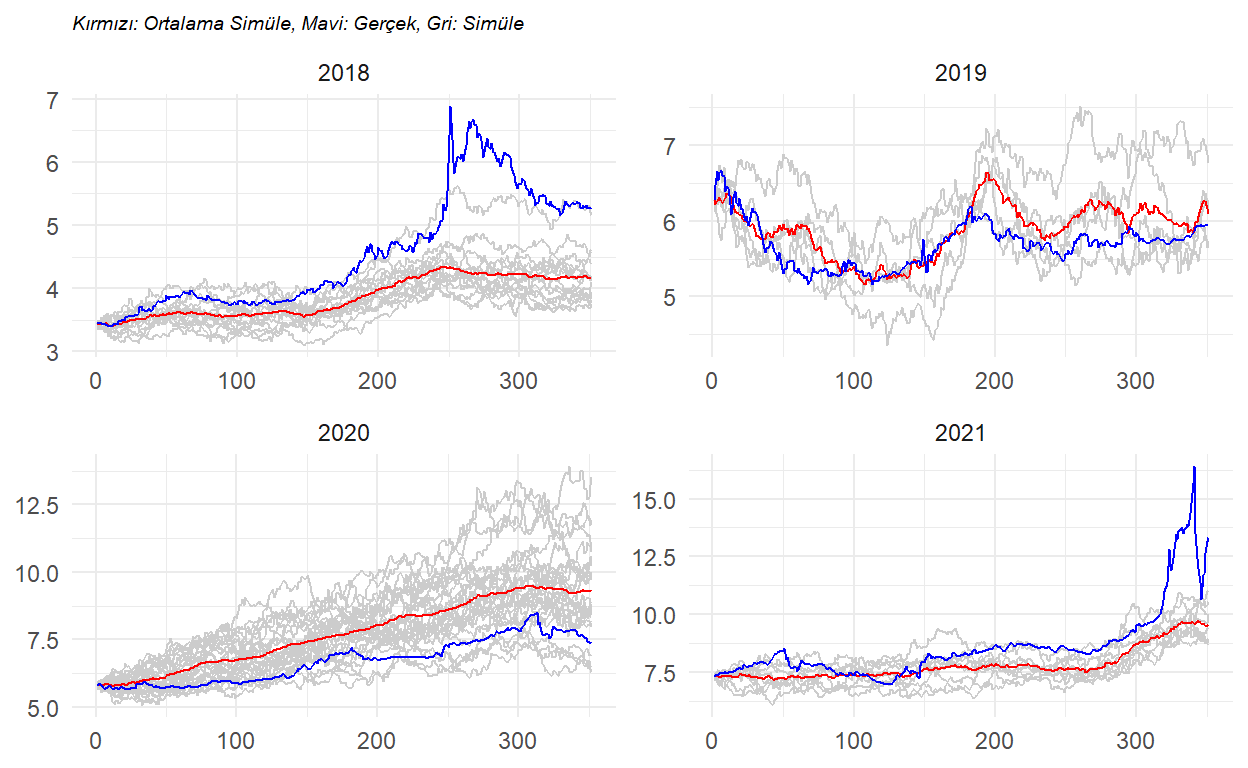
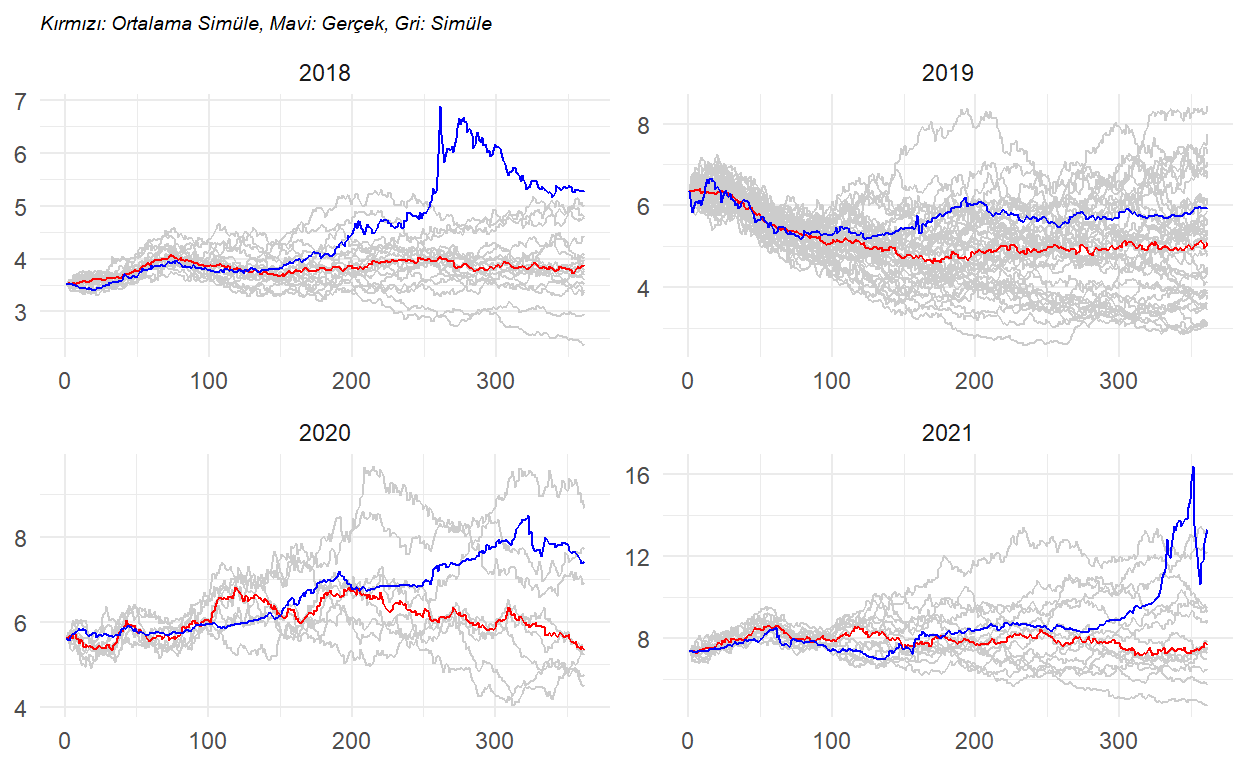
.

diff --git a/_posts/2022-05-22-post4/post4.html b/_posts/2022-05-22-post4/post4.html
@@ -1793,21 +1793,20 @@ farklı olarak burada simülasyonu biraz daha geriden başlatacağız. Çünkü
 test edilecek yıla ait değerlerin henüz gerçekleşmediğini varsayarsak,
 önceki yılın bir bölümünü alıp burada gerçekleşen değerleri bir kümeye
 dahil etmemiz gerekir. Bunun için de test edilecek yıldan bir önceki
-yılın son 90 iş gününü alabiliriz. Bu durumda aşamaları şöyle
-sıralayabiliriz: Test edilecek yıldan bir önceki yılın son 90 iş gününü
-al, burayı simüle et, simüle değerleri kümelere ayır, 90 gün için
+yılın son 100 iş gününü alabiliriz. Bu durumda aşamaları şöyle
+sıralayabiliriz: Test edilecek yıldan bir önceki yılın son 100 iş gününü
+al, burayı simüle et, simüle değerleri kümelere ayır, 100 gün için
 gerçekleşen değerleri bir kümeye dahil et ve buradan seçilen kümeleri
-kullanarak test edilecek yılın değerlerini bul. 90 iş gününü (~4 ay)
-seçme nedenim vade uzadıkça tahmin gücünün zayıflayabileceğini dikkate
-alarak çok geriden başlatıp tahmini kötüleştirmemek; bununla beraber,
-çok da erken başlatıp zaman serilerini kümelerken kaliteyi
-düşürmemek.</p>
+kullanarak test edilecek yılın değerlerini bul. 100 iş gününü seçme
+nedenim vade uzadıkça tahmin gücünün zayıflayabileceğini dikkate alarak
+çok geriden başlatıp tahmini kötüleştirmemek; bununla beraber, çok da
+erken başlatıp zaman serilerini kümelerken kaliteyi düşürmemek.</p>
 <div class="layout-chunk" data-layout="l-body">
 <div class="sourceCode">
 <pre class="sourceCode r"><code class="sourceCode r"><span class='va'>filter_min</span> <span class='op'>&lt;-</span> <span class='va'>df</span> <span class='op'><a href='https://magrittr.tidyverse.org/reference/pipe.html'>%&gt;%</a></span> 
   <span class='fu'><a href='https://dplyr.tidyverse.org/reference/filter.html'>filter</a></span><span class='op'>(</span><span class='va'>year</span> <span class='op'><a href='https://rdrr.io/r/base/match.html'>%in%</a></span> <span class='fl'>2017</span><span class='op'>:</span><span class='fl'>2020</span><span class='op'>)</span> <span class='op'><a href='https://magrittr.tidyverse.org/reference/pipe.html'>%&gt;%</a></span> 
   <span class='fu'><a href='https://dplyr.tidyverse.org/reference/group_by.html'>group_by</a></span><span class='op'>(</span><span class='va'>year</span><span class='op'>)</span> <span class='op'><a href='https://magrittr.tidyverse.org/reference/pipe.html'>%&gt;%</a></span> 
-  <span class='fu'><a href='https://dplyr.tidyverse.org/reference/slice.html'>slice</a></span><span class='op'>(</span><span class='fu'><a href='https://rdrr.io/r/utils/head.html'>tail</a></span><span class='op'>(</span><span class='fu'><a href='https://dplyr.tidyverse.org/reference/ranking.html'>row_number</a></span><span class='op'>(</span><span class='op'>)</span>, <span class='fl'>90</span><span class='op'>)</span><span class='op'>)</span> <span class='op'><a href='https://magrittr.tidyverse.org/reference/pipe.html'>%&gt;%</a></span> 
+  <span class='fu'><a href='https://dplyr.tidyverse.org/reference/slice.html'>slice</a></span><span class='op'>(</span><span class='fu'><a href='https://rdrr.io/r/utils/head.html'>tail</a></span><span class='op'>(</span><span class='fu'><a href='https://dplyr.tidyverse.org/reference/ranking.html'>row_number</a></span><span class='op'>(</span><span class='op'>)</span>, <span class='fl'>100</span><span class='op'>)</span><span class='op'>)</span> <span class='op'><a href='https://magrittr.tidyverse.org/reference/pipe.html'>%&gt;%</a></span> 
   <span class='fu'><a href='https://dplyr.tidyverse.org/reference/filter.html'>filter</a></span><span class='op'>(</span><span class='va'>date</span> <span class='op'>==</span> <span class='fu'><a href='https://rdrr.io/r/base/Extremes.html'>min</a></span><span class='op'>(</span><span class='va'>date</span><span class='op'>)</span><span class='op'>)</span> <span class='op'><a href='https://magrittr.tidyverse.org/reference/pipe.html'>%&gt;%</a></span> 
   <span class='fu'><a href='https://dplyr.tidyverse.org/reference/pull.html'>pull</a></span><span class='op'>(</span><span class='va'>date</span><span class='op'>)</span>
 
@@ -1838,11 +1837,11 @@ düşürmemek.</p>
   
   <span class='va'>mlsim_master</span> <span class='op'>&lt;-</span> <span class='va'>mlsim_master</span> <span class='op'><a href='https://magrittr.tidyverse.org/reference/pipe.html'>%&gt;%</a></span> <span class='fu'><a href='https://dplyr.tidyverse.org/reference/bind.html'>bind_rows</a></span><span class='op'>(</span><span class='va'>mlsim</span><span class='op'>)</span>
   
-  <span class='va'>mlgbm</span> <span class='op'>&lt;-</span> <span class='fu'><a href='https://rdrr.io/r/base/t.html'>t</a></span><span class='op'>(</span><span class='fu'><a href='https://rdrr.io/r/base/scale.html'>scale</a></span><span class='op'>(</span><span class='va'>mlsim</span><span class='op'>[</span><span class='op'>-</span><span class='fu'><a href='https://rdrr.io/r/base/c.html'>c</a></span><span class='op'>(</span><span class='fl'>1</span>,<span class='fl'>2</span><span class='op'>)</span><span class='op'>]</span><span class='op'>)</span><span class='op'>)</span>
+  <span class='va'>mlgbm</span> <span class='op'>&lt;-</span> <span class='fu'><a href='https://rdrr.io/r/base/t.html'>t</a></span><span class='op'>(</span><span class='fu'><a href='https://rdrr.io/r/base/scale.html'>scale</a></span><span class='op'>(</span><span class='va'>mlsim</span><span class='op'>[</span><span class='fl'>1</span><span class='op'>:</span><span class='fl'>100</span>,<span class='op'>-</span><span class='fu'><a href='https://rdrr.io/r/base/c.html'>c</a></span><span class='op'>(</span><span class='fl'>1</span>,<span class='fl'>2</span><span class='op'>)</span><span class='op'>]</span><span class='op'>)</span><span class='op'>)</span> <span class='co'># son 100 günü kümelemeye dahil etmeliyiz</span>
   <span class='va'>mlgbm_dist</span> <span class='op'>&lt;-</span> <span class='fu'><a href='https://rdrr.io/r/stats/dist.html'>dist</a></span><span class='op'>(</span><span class='va'>mlgbm</span>, method<span class='op'>=</span><span class='st'>"euclidean"</span><span class='op'>)</span>
   <span class='va'>fit</span> <span class='op'>&lt;-</span> <span class='fu'><a href='https://rdrr.io/r/stats/hclust.html'>hclust</a></span><span class='op'>(</span><span class='va'>mlgbm_dist</span>, method<span class='op'>=</span><span class='st'>"ward.D"</span><span class='op'>)</span>
   
-  <span class='va'>clustered</span> <span class='op'>&lt;-</span> <span class='fu'><a href='https://rdrr.io/r/stats/cutree.html'>cutree</a></span><span class='op'>(</span><span class='va'>fit</span>, k<span class='op'>=</span><span class='fl'>100</span><span class='op'>)</span> <span class='co'># 100 adet küme oluşturulmuştur</span>
+  <span class='va'>clustered</span> <span class='op'>&lt;-</span> <span class='fu'><a href='https://rdrr.io/r/stats/cutree.html'>cutree</a></span><span class='op'>(</span><span class='va'>fit</span>, k<span class='op'>=</span><span class='fl'>50</span><span class='op'>)</span> <span class='co'># 50 adet küme oluşturulmuştur</span>
   <span class='va'>clustered_tidy</span> <span class='op'>&lt;-</span> <span class='fu'><a href='https://rdrr.io/r/base/as.data.frame.html'>as.data.frame</a></span><span class='op'>(</span><span class='fu'><a href='https://rdrr.io/r/base/table.html'>as.table</a></span><span class='op'>(</span><span class='va'>clustered</span><span class='op'>)</span><span class='op'>)</span> <span class='op'><a href='https://magrittr.tidyverse.org/reference/pipe.html'>%&gt;%</a></span> 
     <span class='fu'><a href='https://dplyr.tidyverse.org/reference/rename.html'>rename</a></span><span class='op'>(</span><span class='st'>"sim"</span><span class='op'>=</span><span class='fl'>1</span>,<span class='st'>"cluster"</span><span class='op'>=</span><span class='fl'>2</span><span class='op'>)</span> <span class='op'><a href='https://magrittr.tidyverse.org/reference/pipe.html'>%&gt;%</a></span> 
     <span class='fu'><a href='https://dplyr.tidyverse.org/reference/mutate.html'>mutate</a></span><span class='op'>(</span>sim <span class='op'>=</span> <span class='fu'><a href='https://rdrr.io/r/base/character.html'>as.character</a></span><span class='op'>(</span><span class='va'>sim</span><span class='op'>)</span><span class='op'>)</span>
@@ -1859,7 +1858,8 @@ düşürmemek.</p>
     <span class='fu'><a href='https://dplyr.tidyverse.org/reference/filter.html'>filter</a></span><span class='op'>(</span><span class='va'>cluster</span> <span class='op'>==</span> <span class='va'>cluster_x</span><span class='op'>)</span> <span class='op'><a href='https://magrittr.tidyverse.org/reference/pipe.html'>%&gt;%</a></span> 
     <span class='fu'><a href='https://dplyr.tidyverse.org/reference/select.html'>select</a></span><span class='op'>(</span><span class='op'>-</span><span class='va'>cluster</span><span class='op'>)</span> <span class='op'><a href='https://magrittr.tidyverse.org/reference/pipe.html'>%&gt;%</a></span> 
     <span class='fu'><a href='https://tidyr.tidyverse.org/reference/pivot_wider.html'>pivot_wider</a></span><span class='op'>(</span>names_from <span class='op'>=</span> <span class='st'>"sim"</span>, values_from <span class='op'>=</span> <span class='st'>"value"</span><span class='op'>)</span> <span class='op'><a href='https://magrittr.tidyverse.org/reference/pipe.html'>%&gt;%</a></span> 
-    <span class='fu'><a href='https://dplyr.tidyverse.org/reference/mutate.html'>mutate</a></span><span class='op'>(</span><span class='st'>"simAvg"</span> <span class='op'>=</span> <span class='fu'><a href='https://rdrr.io/r/base/colSums.html'>rowMeans</a></span><span class='op'>(</span><span class='va'>.</span><span class='op'>[</span>,<span class='op'>-</span><span class='fu'><a href='https://rdrr.io/r/base/c.html'>c</a></span><span class='op'>(</span><span class='fl'>1</span>,<span class='fl'>2</span>,<span class='fu'><a href='https://rdrr.io/r/base/nrow.html'>ncol</a></span><span class='op'>(</span><span class='va'>.</span><span class='op'>)</span><span class='op'>)</span><span class='op'>]</span><span class='op'>)</span><span class='op'>)</span> <span class='op'><a href='https://magrittr.tidyverse.org/reference/pipe.html'>%&gt;%</a></span> 
+    <span class='fu'><a href='https://dplyr.tidyverse.org/reference/mutate.html'>mutate</a></span><span class='op'>(</span><span class='st'>"simAvg"</span> <span class='op'>=</span> <span class='fu'><a href='https://rdrr.io/r/base/apply.html'>apply</a></span><span class='op'>(</span><span class='va'>.</span><span class='op'>[</span>,<span class='op'>-</span><span class='fu'><a href='https://rdrr.io/r/base/c.html'>c</a></span><span class='op'>(</span><span class='fl'>1</span>,<span class='fl'>2</span>,<span class='fu'><a href='https://rdrr.io/r/base/nrow.html'>ncol</a></span><span class='op'>(</span><span class='va'>.</span><span class='op'>)</span><span class='op'>)</span><span class='op'>]</span>, <span class='fl'>1</span>, <span class='kw'>function</span><span class='op'>(</span><span class='va'>x</span><span class='op'>)</span> <span class='fu'><a href='https://rdrr.io/r/stats/median.html'>median</a></span><span class='op'>(</span><span class='va'>x</span><span class='op'>)</span><span class='op'>)</span><span class='op'>)</span> <span class='op'><a href='https://magrittr.tidyverse.org/reference/pipe.html'>%&gt;%</a></span> 
+    <span class='co'># uç değerlerden etkilenmemek için ortalama yerine medyan (ortanca) kullanıldı</span>
     <span class='fu'><a href='https://tidyr.tidyverse.org/reference/pivot_longer.html'>pivot_longer</a></span><span class='op'>(</span><span class='op'>!</span><span class='fu'><a href='https://rdrr.io/r/base/c.html'>c</a></span><span class='op'>(</span><span class='va'>rn</span>,<span class='va'>year</span><span class='op'>)</span>, names_to <span class='op'>=</span> <span class='st'>"sim"</span>, values_to <span class='op'>=</span> <span class='st'>"value"</span><span class='op'>)</span>
   
   <span class='va'>joined_clusters_master</span> <span class='op'>&lt;-</span> <span class='va'>joined_clusters_master</span> <span class='op'><a href='https://magrittr.tidyverse.org/reference/pipe.html'>%&gt;%</a></span> <span class='fu'><a href='https://dplyr.tidyverse.org/reference/bind.html'>bind_rows</a></span><span class='op'>(</span><span class='va'>joined_clusters</span><span class='op'>)</span>
@@ -1904,7 +1904,7 @@ rmse_avg
 2018
 </td>
 <td style="text-align:right;">
-0.9311971
+1.1098768
 </td>
 <td style="text-align:right;">
 1.3661915
@@ -1915,7 +1915,7 @@ rmse_avg
 2019
 </td>
 <td style="text-align:right;">
-0.3126214
+0.6884056
 </td>
 <td style="text-align:right;">
 0.4085097
@@ -1926,7 +1926,7 @@ rmse_avg
 2020
 </td>
 <td style="text-align:right;">
-1.1336277
+1.0413089
 </td>
 <td style="text-align:right;">
 1.3118926
@@ -1937,7 +1937,7 @@ rmse_avg
 2021
 </td>
 <td style="text-align:right;">
-1.2758276
+1.8937623
 </td>
 <td style="text-align:right;">
 2.1905821
@@ -1947,11 +1947,15 @@ rmse_avg
 </table>
 </div>
 <p>Yukarıdaki tablodan ve aşağıdaki grafikten görüleceği üzere RMSE
-değerlerini düşürdük ki sıfıra yaklaşması hiç tahmin hatası yapılmadığı
-anlamına geliyor.</p>
+değerlerini tek bir yıl hariç düşürdük ki sıfıra yaklaşması hiç tahmin
+hatası yapılmadığı anlamına geliyor.</p>
 <div class="layout-chunk" data-layout="l-body">
 <p><img src="post4_files/figure-html5/unnamed-chunk-15-1.png" width="624" /></p>
 </div>
+<p>Çalışmada kümeleme algoritmasının simülasyonda faydalı olabileceğine
+odaklanmak istedim. Burada <span class="math inline">\(\mu\)</span> ve
+<span class="math inline">\(\sigma\)</span> değerlerinin, iş günü
+sayısının, küme sayısının en uygun şekilde seçimi önem kazanacaktır.</p>
 <p>Görsellere ait kodlara aşağıdan ulaşılabilir.</p>
 <div class="layout-chunk" data-layout="l-body">
 <div class="sourceCode">

diff --git a/docs/posts/2022-05-22-post4/index.html b/docs/posts/2022-05-22-post4/index.html
@@ -2441,21 +2441,20 @@ farklı olarak burada simülasyonu biraz daha geriden başlatacağız. Çünkü
 test edilecek yıla ait değerlerin henüz gerçekleşmediğini varsayarsak,
 önceki yılın bir bölümünü alıp burada gerçekleşen değerleri bir kümeye
 dahil etmemiz gerekir. Bunun için de test edilecek yıldan bir önceki
-yılın son 90 iş gününü alabiliriz. Bu durumda aşamaları şöyle
-sıralayabiliriz: Test edilecek yıldan bir önceki yılın son 90 iş gününü
-al, burayı simüle et, simüle değerleri kümelere ayır, 90 gün için
+yılın son 100 iş gününü alabiliriz. Bu durumda aşamaları şöyle
+sıralayabiliriz: Test edilecek yıldan bir önceki yılın son 100 iş gününü
+al, burayı simüle et, simüle değerleri kümelere ayır, 100 gün için
 gerçekleşen değerleri bir kümeye dahil et ve buradan seçilen kümeleri
-kullanarak test edilecek yılın değerlerini bul. 90 iş gününü (~4 ay)
-seçme nedenim vade uzadıkça tahmin gücünün zayıflayabileceğini dikkate
-alarak çok geriden başlatıp tahmini kötüleştirmemek; bununla beraber,
-çok da erken başlatıp zaman serilerini kümelerken kaliteyi
-düşürmemek.</p>
+kullanarak test edilecek yılın değerlerini bul. 100 iş gününü seçme
+nedenim vade uzadıkça tahmin gücünün zayıflayabileceğini dikkate alarak
+çok geriden başlatıp tahmini kötüleştirmemek; bununla beraber, çok da
+erken başlatıp zaman serilerini kümelerken kaliteyi düşürmemek.</p>
 <div class="layout-chunk" data-layout="l-body">
 <div class="sourceCode">
 <pre class="sourceCode r"><code class="sourceCode r"><span class='va'>filter_min</span> <span class='op'>&lt;-</span> <span class='va'>df</span> <span class='op'><a href='https://magrittr.tidyverse.org/reference/pipe.html'>%&gt;%</a></span> 
   <span class='fu'><a href='https://dplyr.tidyverse.org/reference/filter.html'>filter</a></span><span class='op'>(</span><span class='va'>year</span> <span class='op'><a href='https://rdrr.io/r/base/match.html'>%in%</a></span> <span class='fl'>2017</span><span class='op'>:</span><span class='fl'>2020</span><span class='op'>)</span> <span class='op'><a href='https://magrittr.tidyverse.org/reference/pipe.html'>%&gt;%</a></span> 
   <span class='fu'><a href='https://dplyr.tidyverse.org/reference/group_by.html'>group_by</a></span><span class='op'>(</span><span class='va'>year</span><span class='op'>)</span> <span class='op'><a href='https://magrittr.tidyverse.org/reference/pipe.html'>%&gt;%</a></span> 
-  <span class='fu'><a href='https://dplyr.tidyverse.org/reference/slice.html'>slice</a></span><span class='op'>(</span><span class='fu'><a href='https://rdrr.io/r/utils/head.html'>tail</a></span><span class='op'>(</span><span class='fu'><a href='https://dplyr.tidyverse.org/reference/ranking.html'>row_number</a></span><span class='op'>(</span><span class='op'>)</span>, <span class='fl'>90</span><span class='op'>)</span><span class='op'>)</span> <span class='op'><a href='https://magrittr.tidyverse.org/reference/pipe.html'>%&gt;%</a></span> 
+  <span class='fu'><a href='https://dplyr.tidyverse.org/reference/slice.html'>slice</a></span><span class='op'>(</span><span class='fu'><a href='https://rdrr.io/r/utils/head.html'>tail</a></span><span class='op'>(</span><span class='fu'><a href='https://dplyr.tidyverse.org/reference/ranking.html'>row_number</a></span><span class='op'>(</span><span class='op'>)</span>, <span class='fl'>100</span><span class='op'>)</span><span class='op'>)</span> <span class='op'><a href='https://magrittr.tidyverse.org/reference/pipe.html'>%&gt;%</a></span> 
   <span class='fu'><a href='https://dplyr.tidyverse.org/reference/filter.html'>filter</a></span><span class='op'>(</span><span class='va'>date</span> <span class='op'>==</span> <span class='fu'><a href='https://rdrr.io/r/base/Extremes.html'>min</a></span><span class='op'>(</span><span class='va'>date</span><span class='op'>)</span><span class='op'>)</span> <span class='op'><a href='https://magrittr.tidyverse.org/reference/pipe.html'>%&gt;%</a></span> 
   <span class='fu'><a href='https://dplyr.tidyverse.org/reference/pull.html'>pull</a></span><span class='op'>(</span><span class='va'>date</span><span class='op'>)</span>
 
@@ -2486,11 +2485,11 @@ düşürmemek.</p>
   
   <span class='va'>mlsim_master</span> <span class='op'>&lt;-</span> <span class='va'>mlsim_master</span> <span class='op'><a href='https://magrittr.tidyverse.org/reference/pipe.html'>%&gt;%</a></span> <span class='fu'><a href='https://dplyr.tidyverse.org/reference/bind.html'>bind_rows</a></span><span class='op'>(</span><span class='va'>mlsim</span><span class='op'>)</span>
   
-  <span class='va'>mlgbm</span> <span class='op'>&lt;-</span> <span class='fu'><a href='https://rdrr.io/r/base/t.html'>t</a></span><span class='op'>(</span><span class='fu'><a href='https://rdrr.io/r/base/scale.html'>scale</a></span><span class='op'>(</span><span class='va'>mlsim</span><span class='op'>[</span><span class='op'>-</span><span class='fu'><a href='https://rdrr.io/r/base/c.html'>c</a></span><span class='op'>(</span><span class='fl'>1</span>,<span class='fl'>2</span><span class='op'>)</span><span class='op'>]</span><span class='op'>)</span><span class='op'>)</span>
+  <span class='va'>mlgbm</span> <span class='op'>&lt;-</span> <span class='fu'><a href='https://rdrr.io/r/base/t.html'>t</a></span><span class='op'>(</span><span class='fu'><a href='https://rdrr.io/r/base/scale.html'>scale</a></span><span class='op'>(</span><span class='va'>mlsim</span><span class='op'>[</span><span class='fl'>1</span><span class='op'>:</span><span class='fl'>100</span>,<span class='op'>-</span><span class='fu'><a href='https://rdrr.io/r/base/c.html'>c</a></span><span class='op'>(</span><span class='fl'>1</span>,<span class='fl'>2</span><span class='op'>)</span><span class='op'>]</span><span class='op'>)</span><span class='op'>)</span> <span class='co'># son 100 günü kümelemeye dahil etmeliyiz</span>
   <span class='va'>mlgbm_dist</span> <span class='op'>&lt;-</span> <span class='fu'><a href='https://rdrr.io/r/stats/dist.html'>dist</a></span><span class='op'>(</span><span class='va'>mlgbm</span>, method<span class='op'>=</span><span class='st'>"euclidean"</span><span class='op'>)</span>
   <span class='va'>fit</span> <span class='op'>&lt;-</span> <span class='fu'><a href='https://rdrr.io/r/stats/hclust.html'>hclust</a></span><span class='op'>(</span><span class='va'>mlgbm_dist</span>, method<span class='op'>=</span><span class='st'>"ward.D"</span><span class='op'>)</span>
   
-  <span class='va'>clustered</span> <span class='op'>&lt;-</span> <span class='fu'><a href='https://rdrr.io/r/stats/cutree.html'>cutree</a></span><span class='op'>(</span><span class='va'>fit</span>, k<span class='op'>=</span><span class='fl'>100</span><span class='op'>)</span> <span class='co'># 100 adet küme oluşturulmuştur</span>
+  <span class='va'>clustered</span> <span class='op'>&lt;-</span> <span class='fu'><a href='https://rdrr.io/r/stats/cutree.html'>cutree</a></span><span class='op'>(</span><span class='va'>fit</span>, k<span class='op'>=</span><span class='fl'>50</span><span class='op'>)</span> <span class='co'># 50 adet küme oluşturulmuştur</span>
   <span class='va'>clustered_tidy</span> <span class='op'>&lt;-</span> <span class='fu'><a href='https://rdrr.io/r/base/as.data.frame.html'>as.data.frame</a></span><span class='op'>(</span><span class='fu'><a href='https://rdrr.io/r/base/table.html'>as.table</a></span><span class='op'>(</span><span class='va'>clustered</span><span class='op'>)</span><span class='op'>)</span> <span class='op'><a href='https://magrittr.tidyverse.org/reference/pipe.html'>%&gt;%</a></span> 
     <span class='fu'><a href='https://dplyr.tidyverse.org/reference/rename.html'>rename</a></span><span class='op'>(</span><span class='st'>"sim"</span><span class='op'>=</span><span class='fl'>1</span>,<span class='st'>"cluster"</span><span class='op'>=</span><span class='fl'>2</span><span class='op'>)</span> <span class='op'><a href='https://magrittr.tidyverse.org/reference/pipe.html'>%&gt;%</a></span> 
     <span class='fu'><a href='https://dplyr.tidyverse.org/reference/mutate.html'>mutate</a></span><span class='op'>(</span>sim <span class='op'>=</span> <span class='fu'><a href='https://rdrr.io/r/base/character.html'>as.character</a></span><span class='op'>(</span><span class='va'>sim</span><span class='op'>)</span><span class='op'>)</span>
@@ -2507,7 +2506,8 @@ düşürmemek.</p>
     <span class='fu'><a href='https://dplyr.tidyverse.org/reference/filter.html'>filter</a></span><span class='op'>(</span><span class='va'>cluster</span> <span class='op'>==</span> <span class='va'>cluster_x</span><span class='op'>)</span> <span class='op'><a href='https://magrittr.tidyverse.org/reference/pipe.html'>%&gt;%</a></span> 
     <span class='fu'><a href='https://dplyr.tidyverse.org/reference/select.html'>select</a></span><span class='op'>(</span><span class='op'>-</span><span class='va'>cluster</span><span class='op'>)</span> <span class='op'><a href='https://magrittr.tidyverse.org/reference/pipe.html'>%&gt;%</a></span> 
     <span class='fu'><a href='https://tidyr.tidyverse.org/reference/pivot_wider.html'>pivot_wider</a></span><span class='op'>(</span>names_from <span class='op'>=</span> <span class='st'>"sim"</span>, values_from <span class='op'>=</span> <span class='st'>"value"</span><span class='op'>)</span> <span class='op'><a href='https://magrittr.tidyverse.org/reference/pipe.html'>%&gt;%</a></span> 
-    <span class='fu'><a href='https://dplyr.tidyverse.org/reference/mutate.html'>mutate</a></span><span class='op'>(</span><span class='st'>"simAvg"</span> <span class='op'>=</span> <span class='fu'><a href='https://rdrr.io/r/base/colSums.html'>rowMeans</a></span><span class='op'>(</span><span class='va'>.</span><span class='op'>[</span>,<span class='op'>-</span><span class='fu'><a href='https://rdrr.io/r/base/c.html'>c</a></span><span class='op'>(</span><span class='fl'>1</span>,<span class='fl'>2</span>,<span class='fu'><a href='https://rdrr.io/r/base/nrow.html'>ncol</a></span><span class='op'>(</span><span class='va'>.</span><span class='op'>)</span><span class='op'>)</span><span class='op'>]</span><span class='op'>)</span><span class='op'>)</span> <span class='op'><a href='https://magrittr.tidyverse.org/reference/pipe.html'>%&gt;%</a></span> 
+    <span class='fu'><a href='https://dplyr.tidyverse.org/reference/mutate.html'>mutate</a></span><span class='op'>(</span><span class='st'>"simAvg"</span> <span class='op'>=</span> <span class='fu'><a href='https://rdrr.io/r/base/apply.html'>apply</a></span><span class='op'>(</span><span class='va'>.</span><span class='op'>[</span>,<span class='op'>-</span><span class='fu'><a href='https://rdrr.io/r/base/c.html'>c</a></span><span class='op'>(</span><span class='fl'>1</span>,<span class='fl'>2</span>,<span class='fu'><a href='https://rdrr.io/r/base/nrow.html'>ncol</a></span><span class='op'>(</span><span class='va'>.</span><span class='op'>)</span><span class='op'>)</span><span class='op'>]</span>, <span class='fl'>1</span>, <span class='kw'>function</span><span class='op'>(</span><span class='va'>x</span><span class='op'>)</span> <span class='fu'><a href='https://rdrr.io/r/stats/median.html'>median</a></span><span class='op'>(</span><span class='va'>x</span><span class='op'>)</span><span class='op'>)</span><span class='op'>)</span> <span class='op'><a href='https://magrittr.tidyverse.org/reference/pipe.html'>%&gt;%</a></span> 
+    <span class='co'># uç değerlerden etkilenmemek için ortalama yerine medyan (ortanca) kullanıldı</span>
     <span class='fu'><a href='https://tidyr.tidyverse.org/reference/pivot_longer.html'>pivot_longer</a></span><span class='op'>(</span><span class='op'>!</span><span class='fu'><a href='https://rdrr.io/r/base/c.html'>c</a></span><span class='op'>(</span><span class='va'>rn</span>,<span class='va'>year</span><span class='op'>)</span>, names_to <span class='op'>=</span> <span class='st'>"sim"</span>, values_to <span class='op'>=</span> <span class='st'>"value"</span><span class='op'>)</span>
   
   <span class='va'>joined_clusters_master</span> <span class='op'>&lt;-</span> <span class='va'>joined_clusters_master</span> <span class='op'><a href='https://magrittr.tidyverse.org/reference/pipe.html'>%&gt;%</a></span> <span class='fu'><a href='https://dplyr.tidyverse.org/reference/bind.html'>bind_rows</a></span><span class='op'>(</span><span class='va'>joined_clusters</span><span class='op'>)</span>
@@ -2552,7 +2552,7 @@ rmse_avg
 2018
 </td>
 <td style="text-align:right;">
-0.9311971
+1.1098768
 </td>
 <td style="text-align:right;">
 1.3661915
@@ -2563,7 +2563,7 @@ rmse_avg
 2019
 </td>
 <td style="text-align:right;">
-0.3126214
+0.6884056
 </td>
 <td style="text-align:right;">
 0.4085097
@@ -2574,7 +2574,7 @@ rmse_avg
 2020
 </td>
 <td style="text-align:right;">
-1.1336277
+1.0413089
 </td>
 <td style="text-align:right;">
 1.3118926
@@ -2585,7 +2585,7 @@ rmse_avg
 2021
 </td>
 <td style="text-align:right;">
-1.2758276
+1.8937623
 </td>
 <td style="text-align:right;">
 2.1905821
@@ -2595,11 +2595,15 @@ rmse_avg
 </table>
 </div>
 <p>Yukarıdaki tablodan ve aşağıdaki grafikten görüleceği üzere RMSE
-değerlerini düşürdük ki sıfıra yaklaşması hiç tahmin hatası yapılmadığı
-anlamına geliyor.</p>
+değerlerini tek bir yıl hariç düşürdük ki sıfıra yaklaşması hiç tahmin
+hatası yapılmadığı anlamına geliyor.</p>
 <div class="layout-chunk" data-layout="l-body">
 <p><img src="post4_files/figure-html5/unnamed-chunk-15-1.png" width="624" /></p>
 </div>
+<p>Çalışmada kümeleme algoritmasının simülasyonda faydalı olabileceğine
+odaklanmak istedim. Burada <span class="math inline">\(\mu\)</span> ve
+<span class="math inline">\(\sigma\)</span> değerlerinin, iş günü
+sayısının, küme sayısının en uygun şekilde seçimi önem kazanacaktır.</p>
 <p>Görsellere ait kodlara aşağıdan ulaşılabilir.</p>
 <div class="layout-chunk" data-layout="l-body">
 <div class="sourceCode">
